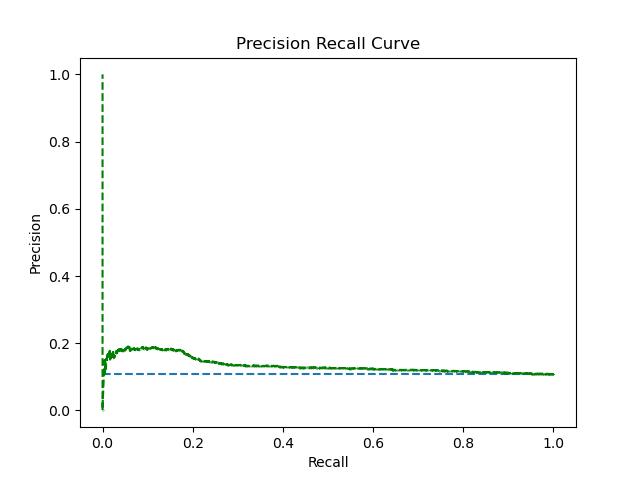
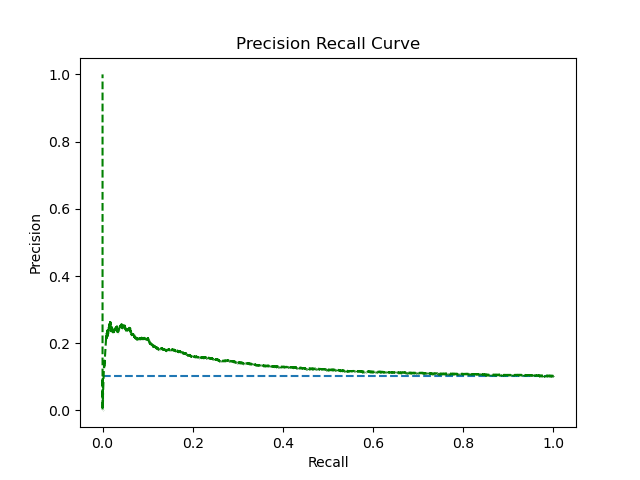
another good set of workable weights

Changed region(s): [[0.1562, 0.6562, 0.875, 0.8125]]

diff --git a/Enhanced-ANN-GSGD/main.py b/Enhanced-ANN-GSGD/main.py
@@ -31,7 +31,7 @@ def GSGD_ANN(filePath):
     #model parameters
     l_rate =  0.02#0.0001#0.0002314354244#9.309681215145698e-15#3.0952770286463463e-07#0.0003314354244#0.00011852732093870824#0.00010926827346753853 #0.0002814354245#0.0002216960781458557#0.0002314354244 #0.000885 #0.061 #0.00025 #0.5
     n_hidden = 300#36#29#50#36#4
-    lamda =  1e-06#0.5964800918102662#0.06067045242012771#1e-05#0.6980844659683136 #1e-06#0.0001  #Lambda will be used for L2 regularizaion
+    lamda =  1e-05#0.5964800918102662#0.06067045242012771#1e-05#0.6980844659683136 #1e-06#0.0001  #Lambda will be used for L2 regularizaion
     betas = (0.9, 0.999)
     beta = 0.9
     epsilon = 1e-8
@@ -57,11 +57,11 @@ def GSGD_ANN(filePath):
     # evaluate algorithm GSGD
     T = math.inf #number of batches to use in training. set to math.inf if all batches will be used in training
     is_guided_approach = True
-    rho = 7
+    rho = 20
     versetnum = 5 #number of batches used for verification
-    epochs = 27#15
-    revisitNum = 3
-    batch_size = 5#812#122#468#300#891#32
+    epochs = 30#27#15
+    revisitNum = 15
+    batch_size = 15#812#122#468#300#891#32
 
     #evaluate GSGD
     cache = is_guided_approach, rho, versetnum,epochs, revisitNum, N, network_GSGD, optimizer_GSGD, T, batch_size
@@ -189,8 +189,8 @@ def evaluate_algorithm(x, y, xts, yts, l_rate, n_inputs, n_outputs, lamda, cache
                     for k in range(loopCount):
                         avgBatchLosses = np.append(avgBatchLosses, np.mean(psi[k]))
                     
-                    this_dataX = np.array(dataset_X) #.reshape(len(dataset_X), n_inputs)
-                    this_dataY = np.array(dataset_y) #.reshape(len(dataset_y), 1)
+                    this_dataX = np.array(dataset_X)
+                    this_dataY = np.array(dataset_y)
 
                     numel_avgBatch = len(avgBatchLosses)
                     avgBatchLosses_idxs = np.argsort(avgBatchLosses)[::-1]

diff --git a/Enhanced-ANN-GSGD/network.py b/Enhanced-ANN-GSGD/network.py
@@ -17,7 +17,7 @@ def train_network(network, data_x, data_y, loss_function, optimizer):
 def get_optimizer(network, name, cache):
     l_rate, lamda, betas, beta, epsilon = cache 
     if(name == 'SGD'):
-        return torch.optim.SGD(network.parameters(), lr=l_rate, weight_decay= lamda, momentum=1e-20, dampening= 0.7754318114218602)
+        return torch.optim.SGD(network.parameters(), lr=l_rate, weight_decay= lamda)
         #return torch.optim.SGD(network.parameters(), lr=l_rate, weight_decay= lamda)
     elif(name == 'ADAM'):
         return torch.optim.Adam(network.parameters(), lr=l_rate, betas= betas,  weight_decay= lamda)
